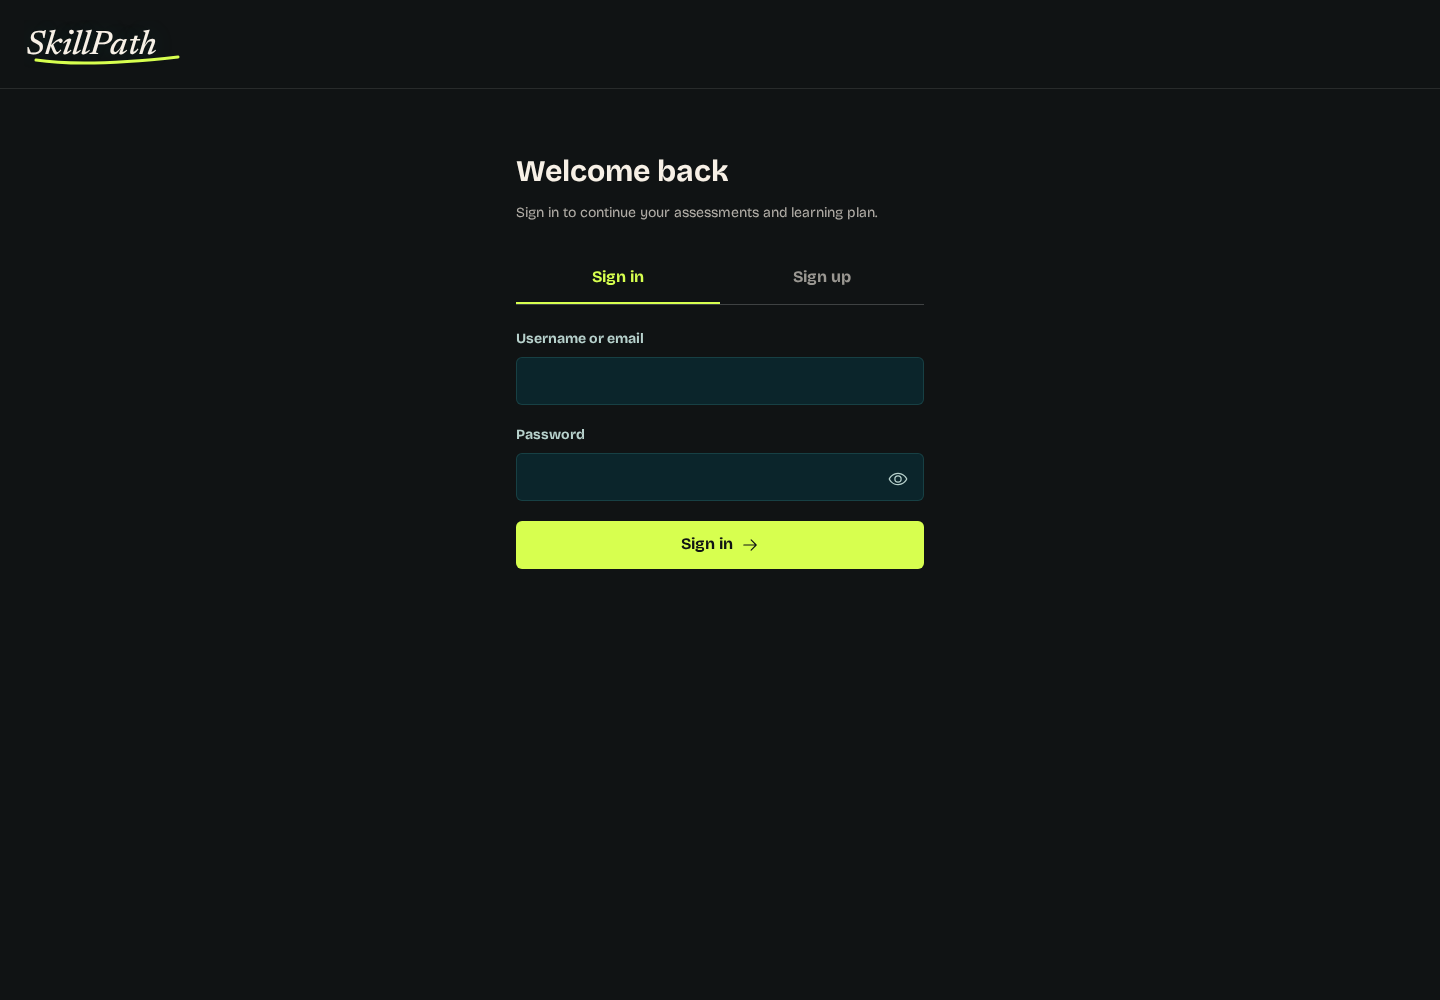
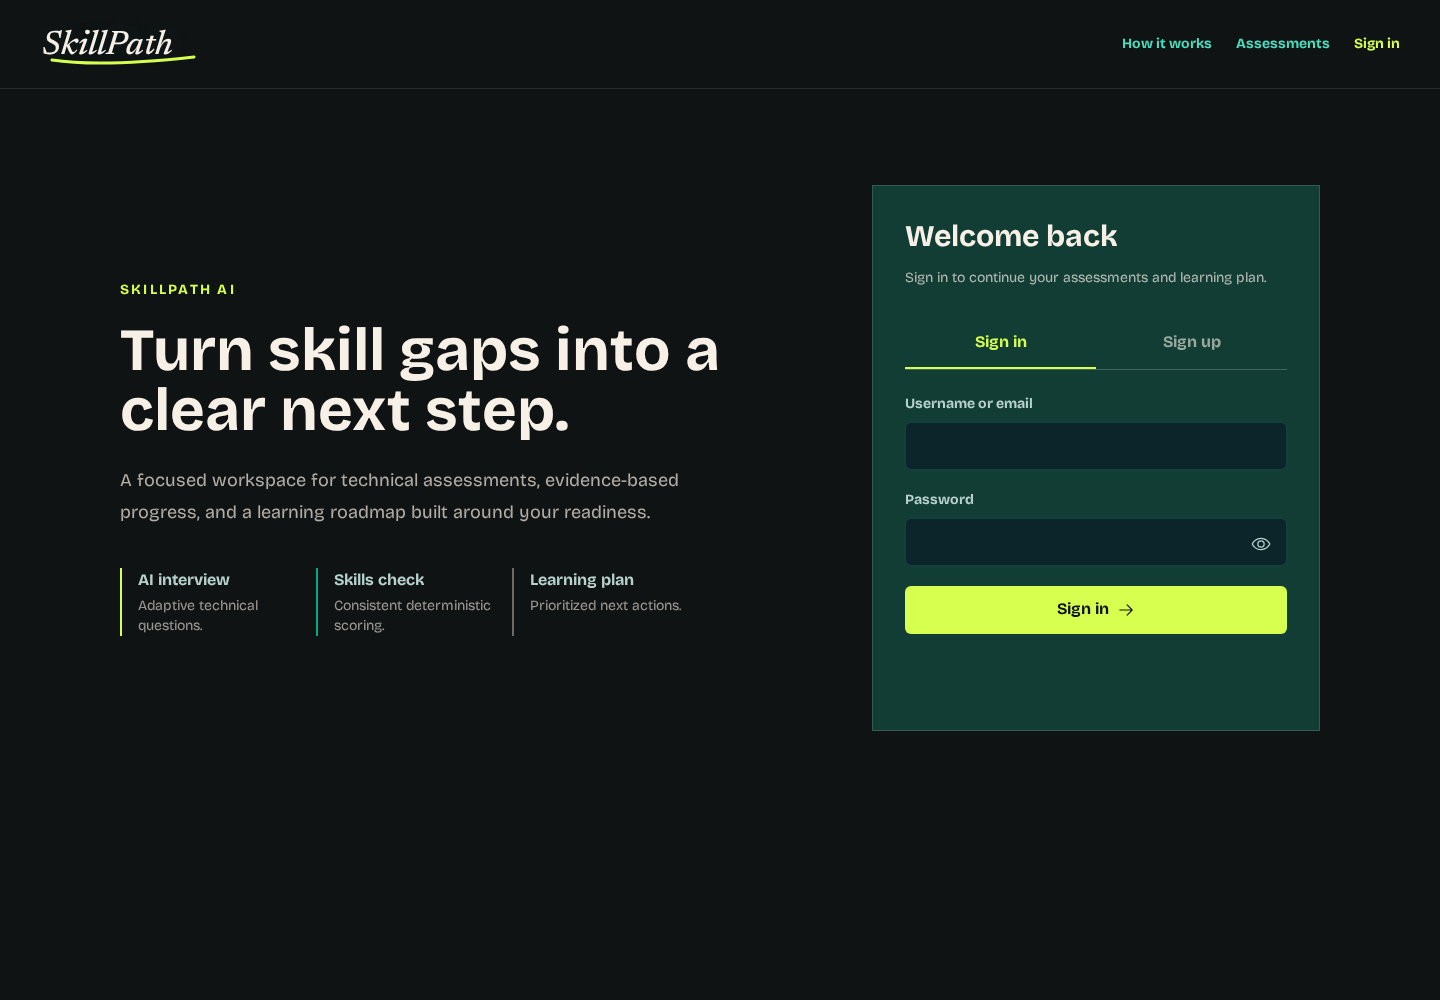
fix: restore AI home and quota-safe assessment startup
Add a professional SkillPath AI entry page with assessment overview and sign-in panel, plus signed-in workspace navigation for home, assessments, roadmap, progress, and profile destinations.

Enable the local deterministic fallback configuration so exhausted Gemini free-tier quota no longer blocks assessment startup; retain Gemini SDK usage and document that live Gemini requires available provider quota.

diff --git a/src/App.tsx b/src/App.tsx
@@ -10,6 +10,7 @@ import type { AgenticSession, AssessmentAccessGrant, SkillAssessmentResult } fro
 import { currentUser, hasToken, login, logout, type LoginResponse } from './api/skillpathApi';
 
 type Step = 'login' | 'profile' | 'dashboard' | 'guidelines' | 'chat' | 'skill' | 'roadmap';
+type DashboardView = 'home' | 'assessments' | 'roadmap' | 'progress' | 'profile';
 export default function App() {
   const [step, setStep] = useState<Step>('login');
   const [method, setMethod] = useState<LoginMethod | null>(null);
@@ -20,12 +21,13 @@ export default function App() {
   const [result, setResult] = useState<SkillAssessmentResult | null>(null);
   const [error, setError] = useState('');
   const [busy, setBusy] = useState(false);
+  const [dashboardView, setDashboardView] = useState<DashboardView>('home');
   const [restoring, setRestoring] = useState(hasToken);
   function authenticated(user: LoginResponse['candidate'], via: LoginMethod = 'credentials') {
     setCandidate(user); setMethod(via);
     setProfile({ name: user.name, email: user.email, qualification: user.qualification as ProfileSetupResult['qualification'],
       domain: user.selectedDomain as ProfileSetupResult['domain'], interestedRoles: user.interestedRoles, claimedSkills: user.claimedSkills, setup: user.setup });
-    setStep(user.profileComplete ? 'dashboard' : 'profile');
+    setDashboardView('home'); setStep(user.profileComplete ? 'dashboard' : 'profile');
   }
   useEffect(() => {
     if (!hasToken()) return;
@@ -46,16 +48,15 @@ export default function App() {
     {error && <div role="alert" className="fixed bottom-4 left-4 right-4 z-50 rounded-md bg-red-950 p-4 text-white">{error}<button className="ml-4 underline" onClick={() => setError('')}>Dismiss</button></div>}
     {step === 'login' && <LoginPage onAuthenticated={authenticated} />}
     {step === 'profile' && <ProfileSetupPage initialEmail={candidate?.email} initialProfile={candidate?.profileComplete ? profile || undefined : undefined} initialName={candidate?.name} saving={busy} lastLoginMethod={method} onBack={() => { if (candidate?.profileComplete) setStep('dashboard'); else { logout(); setStep('login'); } }} onComplete={next => void save(next)} />}
-    {step === 'dashboard' && profile && <main className="min-h-screen bg-skillpath-night text-skillpath-cream">
-      <header className="flex items-center justify-between border-b border-white/15 px-6 py-5"><SkillPathLogo /><button onClick={() => { logout(); setCandidate(null); setProfile(null); setStep('login'); }} className="text-sm font-bold">Sign out</button></header>
-      <section className="mx-auto max-w-5xl px-6 py-10"><h1 className="text-3xl font-bold">Learning Gap Engine</h1><p className="mt-3 text-lg">Welcome back, {profile.name.split(' ')[0]}.</p>
-        <div className="mt-10 border-y border-white/15 py-7"><h2 className="text-xl font-bold">Your assessments</h2><p className="mt-3 text-skillpath-cream/70">{profile.domain}</p><p className="mt-2 text-sm text-skillpath-cream/70">Complete your assessments to build your learning plan.</p>
-          {candidate?.latestResult && <p className="mt-4 text-lg font-bold">Latest result: {candidate.latestResult.score}% · {candidate.latestResult.correct_count}/{candidate.latestResult.total} correct</p>}
-          <button className="mt-6 rounded-md bg-skillpath-citron px-5 py-3 font-bold text-skillpath-night" onClick={() => setStep('guidelines')}>Start assessment</button><button className="ml-5 text-sm underline" onClick={() => setStep('profile')}>Edit profile</button></div>
-      </section></main>}
+    {step === 'dashboard' && profile && <Dashboard profile={profile} candidate={candidate} view={dashboardView} onView={setDashboardView} onAssessment={() => setStep('guidelines')} onProfile={() => setStep('profile')} onSignOut={() => { logout(); setCandidate(null); setProfile(null); setStep('login'); }} />}
     {step === 'guidelines' && profile && <AssessmentGuidelinesPage profile={profile} onBack={() => leaveAssessment('dashboard')} onStartChatbot={grant => { setAccess(grant); setStep('chat'); }} onSkipChatbot={grant => { setAccess(grant); setChat(null); setStep('skill'); }} />}
     {step === 'chat' && profile && access && <LiveChatbotAssessmentPage profile={profile} access={access} onBack={() => leaveAssessment('guidelines')} onComplete={session => { setChat(session); setStep('skill'); }} />}
     {step === 'skill' && profile && access && <SkillAssessmentPage profile={profile} access={access} chatSession={chat} onBack={() => leaveAssessment('guidelines')} onComplete={value => { setResult(value); setStep('roadmap'); }} />}
     {step === 'roadmap' && profile && access && result && <LearningRoadmapPage profile={profile} access={access} chatSession={chat} skillResult={result} onBack={() => leaveAssessment('dashboard')} />}
   </>;
+}
+
+function Dashboard({ profile, candidate, view, onView, onAssessment, onProfile, onSignOut }: { profile: ProfileSetupResult; candidate: LoginResponse['candidate'] | null; view: DashboardView; onView: (view: DashboardView) => void; onAssessment: () => void; onProfile: () => void; onSignOut: () => void }) {
+  const nav = [{ id: 'home', label: 'Home' }, { id: 'assessments', label: 'Assessments' }, { id: 'roadmap', label: 'Learning roadmap' }, { id: 'progress', label: 'Progress tracker' }, { id: 'profile', label: 'Profile' }] as const;
+  return <main className="min-h-screen bg-skillpath-night text-skillpath-cream"><header className="flex flex-wrap items-center justify-between gap-4 border-b border-white/15 px-6 py-5"><SkillPathLogo /><nav className="flex flex-wrap gap-2" aria-label="Workspace navigation">{nav.map(item => <a key={item.id} href={`#${item.id}`} onClick={event => { event.preventDefault(); item.id === 'profile' ? onProfile() : onView(item.id); }} className={`rounded-md px-3 py-2 text-sm font-bold ${view === item.id ? 'bg-skillpath-citron text-skillpath-night' : 'text-skillpath-cream/70 hover:bg-white/10 hover:text-white'}`}>{item.label}</a>)}<button onClick={onSignOut} className="px-3 py-2 text-sm font-bold text-skillpath-cream/60 hover:text-white">Sign out</button></nav></header><section className="mx-auto max-w-6xl px-6 py-10"><p className="text-sm font-bold uppercase tracking-[0.14em] text-skillpath-teal">SkillPath AI workspace</p><h1 className="mt-3 text-3xl font-bold">{view === 'home' ? 'Learning Gap Engine' : nav.find(item => item.id === view)?.label}</h1><p className="mt-3 text-lg">Welcome back, {profile.name.split(' ')[0]}.</p>{view === 'home' || view === 'assessments' ? <section className="mt-10 border-y border-white/15 py-7"><h2 className="text-xl font-bold">{view === 'home' ? 'Your assessments' : 'Assessment center'}</h2><p className="mt-3 text-skillpath-cream/70">{profile.domain}</p><p className="mt-2 text-sm text-skillpath-cream/70">{view === 'home' ? 'Complete your assessments to build your learning plan.' : 'Start the proctored AI interview and deterministic skills assessment.'}</p>{candidate?.latestResult && <p className="mt-4 text-lg font-bold">Latest result: {candidate.latestResult.score}% · {candidate.latestResult.correct_count}/{candidate.latestResult.total} correct</p>}<button className="mt-6 rounded-md bg-skillpath-citron px-5 py-3 font-bold text-skillpath-night" onClick={onAssessment}>Start assessment</button></section> : <section className="mt-10 border-y border-white/15 py-10"><h2 className="text-xl font-bold">{view === 'roadmap' ? 'Learning roadmap' : view === 'progress' ? 'Progress tracker' : 'Profile settings'}</h2><p className="mt-3 max-w-2xl text-skillpath-cream/70">{view === 'roadmap' ? 'Your prioritized learning roadmap will appear here after assessment results are available.' : view === 'progress' ? 'Progress history and completed learning sessions will appear here.' : 'Review and update the profile information used by your assessments.'}</p>{view === 'profile' && <button className="mt-6 rounded-md border border-white/20 px-5 py-3 font-bold" onClick={onProfile}>Open profile setup</button>}</section>}</section></main>;
 }

diff --git a/src/pages/LoginPage.tsx b/src/pages/LoginPage.tsx
@@ -26,9 +26,16 @@ export function LoginPage({ onAuthenticated }: Props) {
     void authenticate(() => signup ? register(username, email, password) : loginCredentials(username, password), 'credentials');
   }
   return <main className="min-h-screen bg-skillpath-night text-skillpath-cream">
-    <header className="border-b border-white/10 px-6 py-5"><SkillPathLogo /></header>
-    <section className="mx-auto w-full max-w-md px-5 py-12 sm:py-16">
-      <h1 className="text-3xl font-bold">{signup ? 'Create your account' : 'Welcome back'}</h1>
+    <header className="flex items-center justify-between border-b border-white/10 px-6 py-5 lg:px-10"><SkillPathLogo /><nav className="hidden items-center gap-6 text-sm font-bold text-skillpath-cream/70 md:flex"><a href="#how-it-works" className="hover:text-skillpath-citron">How it works</a><a href="#assessments" className="hover:text-skillpath-citron">Assessments</a><a href="#sign-in" className="text-skillpath-citron">Sign in</a></nav></header>
+    <section className="mx-auto grid w-full max-w-7xl gap-10 px-5 py-12 sm:px-8 sm:py-16 lg:grid-cols-[1.1fr_0.9fr] lg:items-center lg:px-10 lg:py-24">
+      <div id="how-it-works" className="max-w-2xl">
+        <p className="text-sm font-bold uppercase tracking-[0.16em] text-skillpath-citron">SkillPath AI</p>
+        <h1 className="mt-5 text-5xl font-bold leading-[1.02] sm:text-6xl">Turn skill gaps into a clear next step.</h1>
+        <p className="mt-6 max-w-xl text-lg leading-8 text-skillpath-cream/70">A focused workspace for technical assessments, evidence-based progress, and a learning roadmap built around your readiness.</p>
+        <div id="assessments" className="mt-10 grid max-w-xl gap-3 sm:grid-cols-3"><div className="border-l-2 border-skillpath-citron pl-4"><p className="font-bold">AI interview</p><p className="mt-1 text-sm text-skillpath-cream/60">Adaptive technical questions.</p></div><div className="border-l-2 border-skillpath-teal pl-4"><p className="font-bold">Skills check</p><p className="mt-1 text-sm text-skillpath-cream/60">Consistent deterministic scoring.</p></div><div className="border-l-2 border-skillpath-cream/40 pl-4"><p className="font-bold">Learning plan</p><p className="mt-1 text-sm text-skillpath-cream/60">Prioritized next actions.</p></div></div>
+      </div>
+      <div id="sign-in" className="w-full max-w-md justify-self-center border border-white/15 bg-skillpath-forest p-5 sm:p-8 lg:justify-self-end">
+      <h2 className="text-3xl font-bold">{signup ? 'Create your account' : 'Welcome back'}</h2>
       <p className="mt-3 text-sm leading-6 text-skillpath-cream/70">{signup ? 'Get started with your professional learning profile.' : 'Sign in to continue your assessments and learning plan.'}</p>
       <div className="mt-7 flex border-b border-white/20" role="tablist" aria-label="Account access">
         {[false, true].map(value => <button key={String(value)} role="tab" aria-selected={signup === value} disabled={busy} onClick={() => { setSignup(value); setError(''); }} className={`flex-1 border-b-2 py-3 font-bold ${signup === value ? 'border-skillpath-citron text-skillpath-citron' : 'border-transparent text-skillpath-cream/60'}`}>{value ? 'Sign up' : 'Sign in'}</button>)}
@@ -42,6 +49,7 @@ export function LoginPage({ onAuthenticated }: Props) {
         <button disabled={busy} className="flex h-12 w-full items-center justify-center gap-2 rounded-md bg-skillpath-citron font-bold text-skillpath-night disabled:opacity-50">{busy ? 'Please wait...' : signup ? 'Create account' : 'Sign in'}<ArrowRight size={18} /></button>
       </form>
       {import.meta.env.VITE_GOOGLE_CLIENT_ID && <div className={`mt-6 flex justify-center ${busy ? 'pointer-events-none opacity-50' : ''}`}><GoogleLogin onSuccess={response => { if (response.credential) void authenticate(() => googleLogin(response.credential!), 'google'); }} onError={() => setError('Google sign-in was cancelled or unavailable. Please try again.')} theme="outline" shape="rectangular" text={signup ? 'signup_with' : 'signin_with'} /></div>}
+      </div>
     </section>
   </main>;
 }
